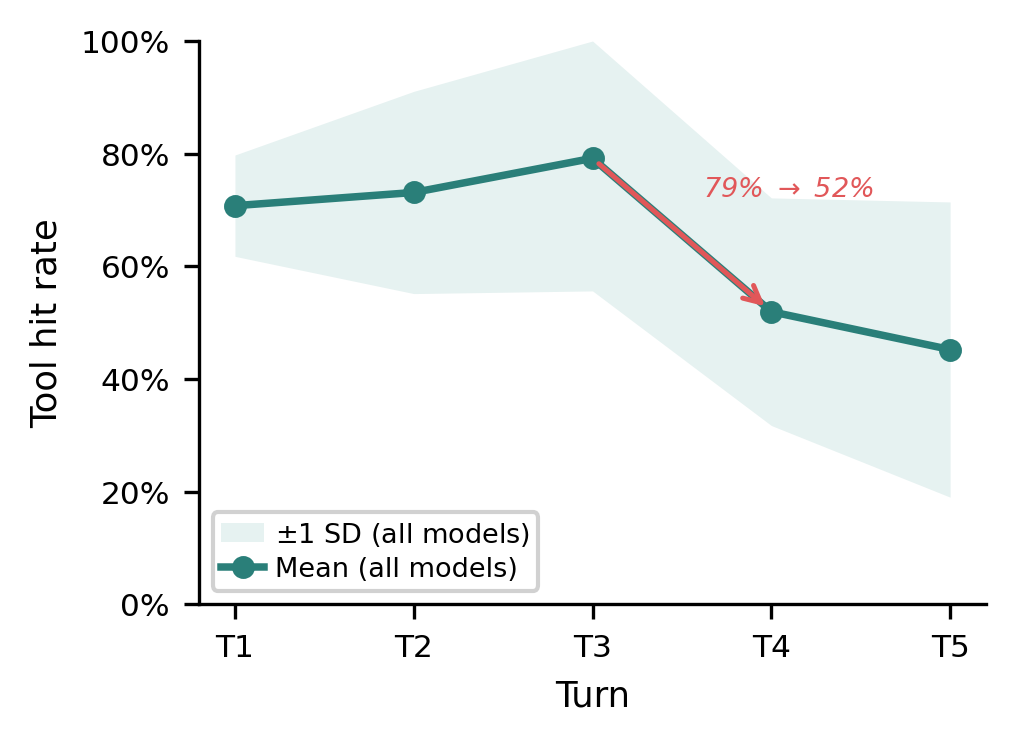
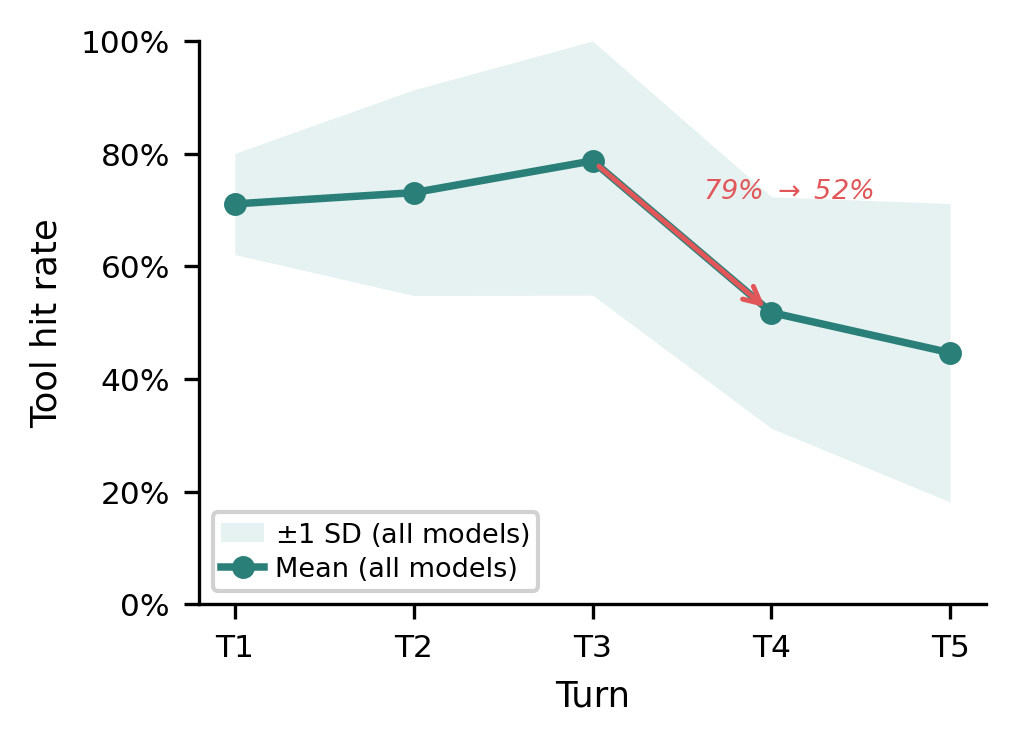
fig_turnwise_line: exclude Kanana-2-Instruct-2601 from band cohort (28 models); turn3->4 drop 27.2->26.9pp (text 'about 27pp' holds)

diff --git a/_experiments/scripts/generate_new_figures.py b/_experiments/scripts/generate_new_figures.py
@@ -171,11 +171,12 @@ def fig_turnwise_line():
     from collections import defaultdict
     MT = _SB / "_experiments" / "results_mt" / "eval"
     MAX_TURN = 5
-    EXCLUDE = {  # 29-model cohort: drop 8 non-cohort variants
+    EXCLUDE = {  # 28-model cohort: drop 8 non-cohort variants + redundant Kanana-2-Instruct-2601
         "Qwen_Qwen3-30B-A3B-Instruct-2507", "Qwen_Qwen3-4B-Instruct-2507",
         "Qwen_Qwen3-8B", "Qwen_Qwen3_5-9B__nothink", "Qwen_Qwen3_5-9B__think",
         "Salesforce_Llama-xLAM-2-8b-fc-r", "Salesforce_xLAM-2-1b-fc-r",
         "Salesforce_xLAM-2-32b-fc-r",
+        "kakaocorp_kanana-2-30b-a3b-instruct-2601",
     }
     turns = list(range(1, MAX_TURN + 1))
     # per-model per-turn mean hit, then aggregate across models
